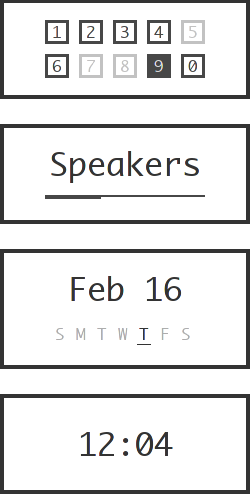
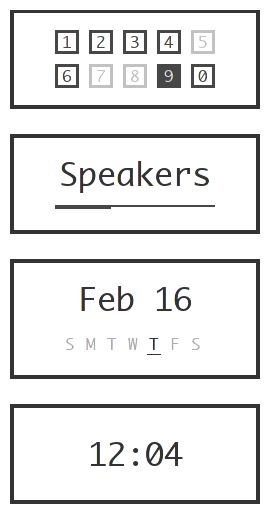
Filled in portfolio project details.

diff --git a/client/atoms/screenshot.js b/client/atoms/screenshot.js
@@ -4,7 +4,7 @@ import React from 'react';
 const baseStyles = {
 	img: {
 		backgroundColor: '#DDD',
-		boxShadow: '2px 2px 5px #555',
+		boxShadow: '0px 0px 5px black',
 		height: 250,
 		margin: 20,
 		width: 250
